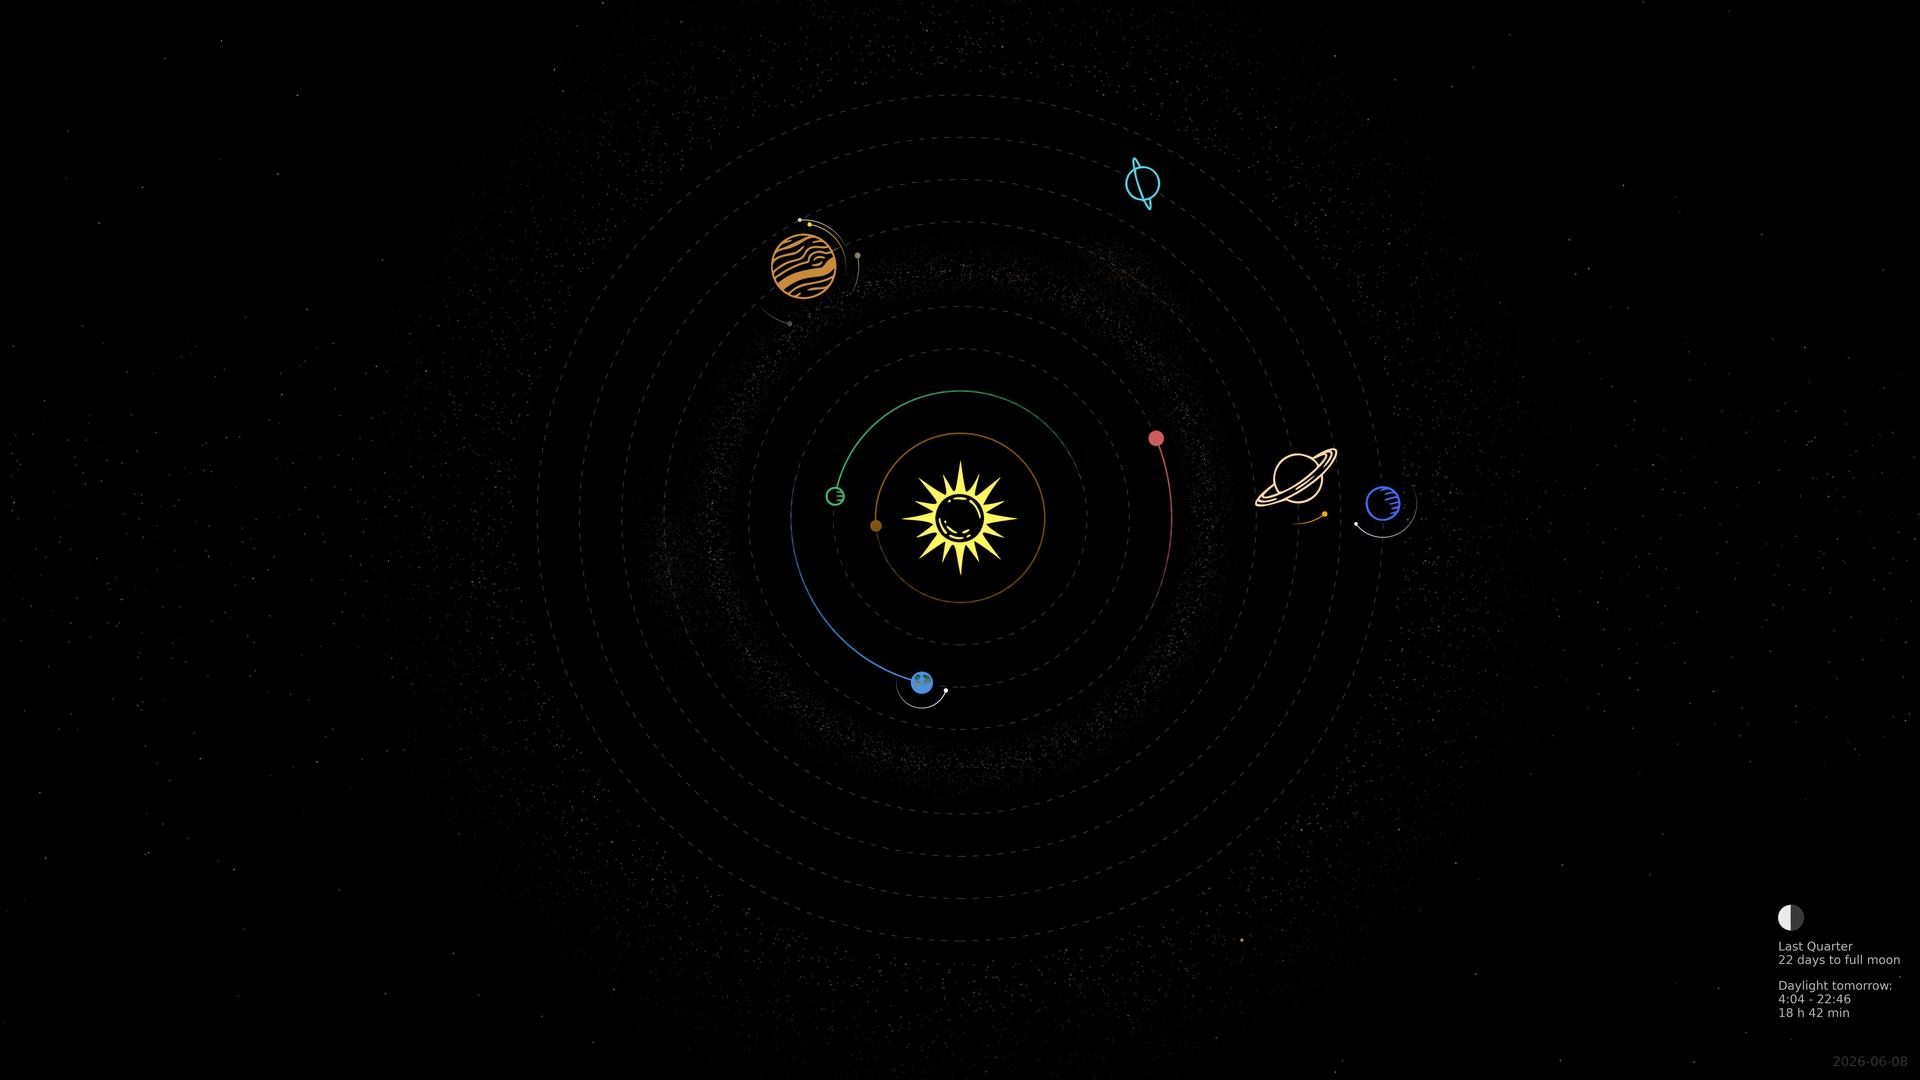
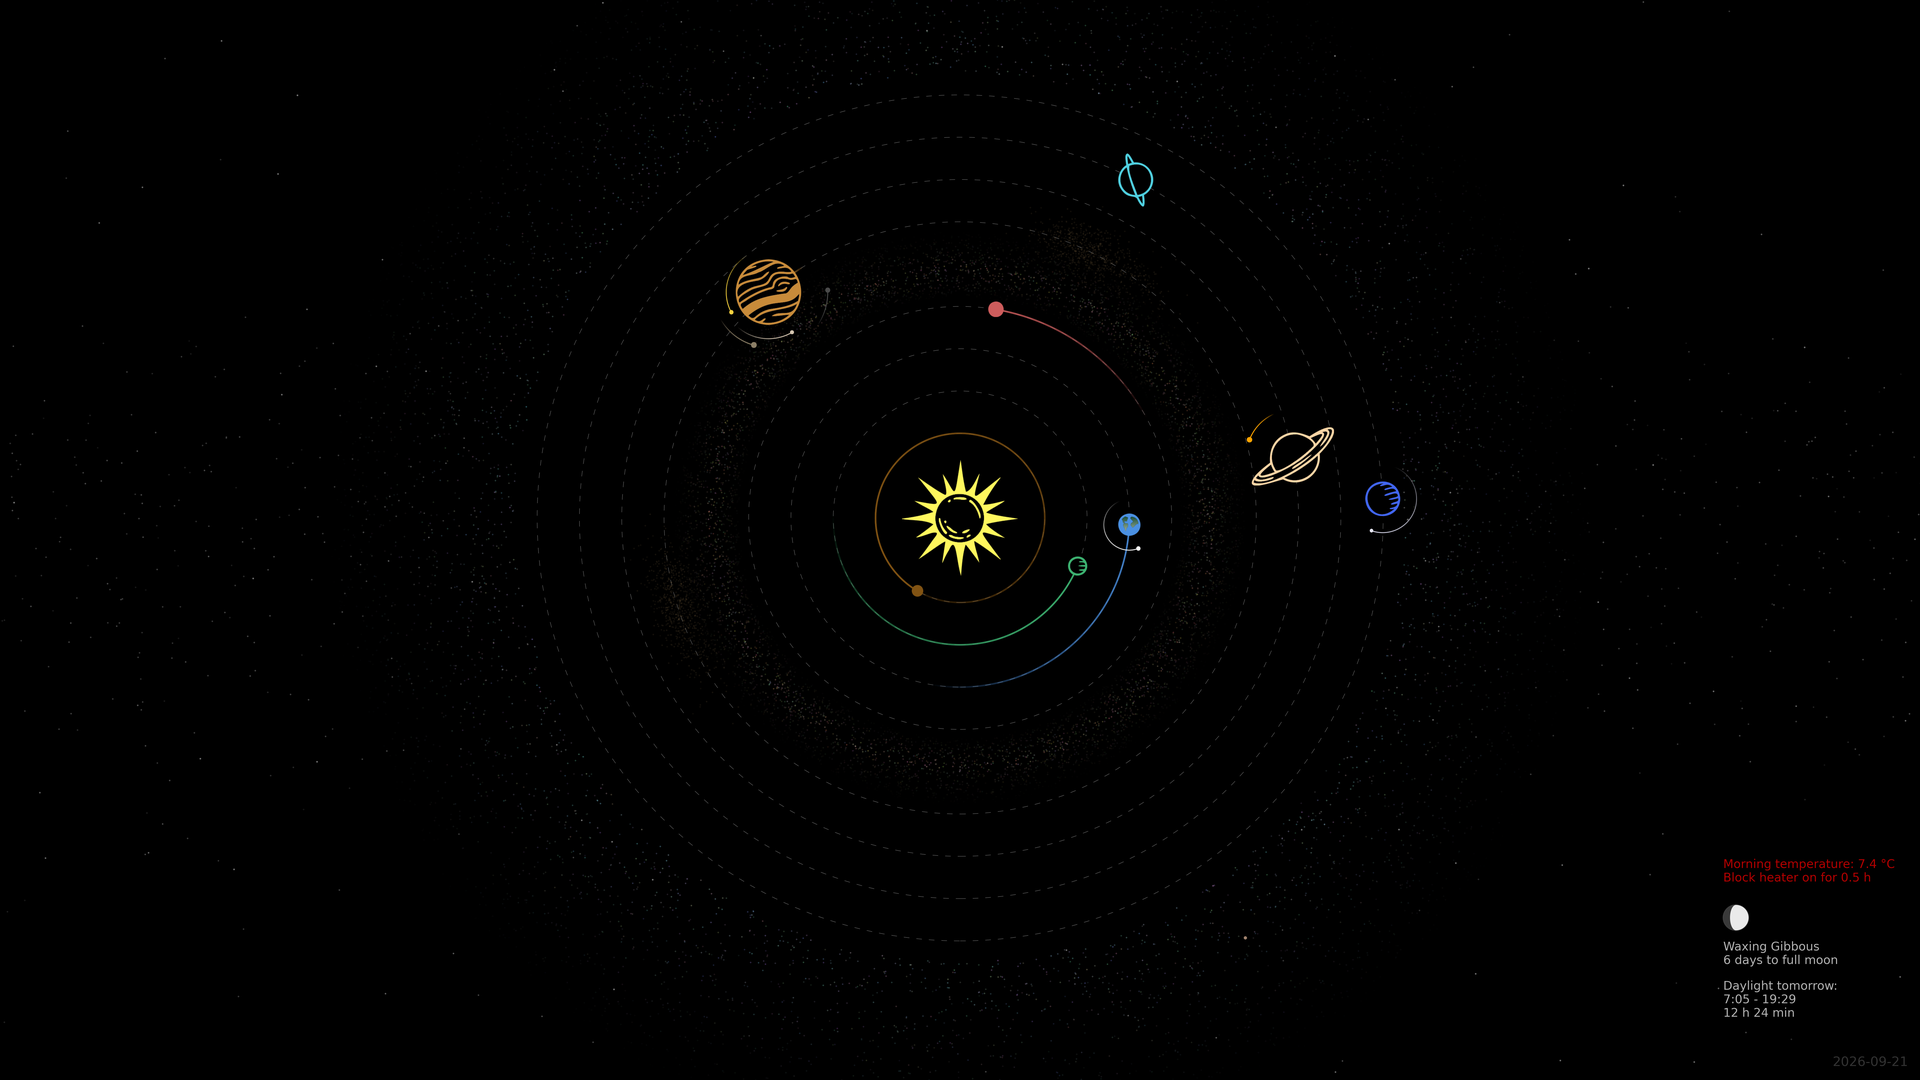
Block heater warning

diff --git a/solarmap.py b/solarmap.py
@@ -83,6 +83,11 @@ STRINGS = {
         'daylight_header':  'Päivänvalo huomenna:',
         'daylight_time':    'klo {rise} - {set}',
         'daylight_hours':   '{h} t {m} min',
+        'morning_temp':     'Lämpötila aamulla: {temp:.1f} °C',
+        'block_heater':     'Lohkolämmitin päälle {time} ajaksi',
+        'heating_05h':      '0,5 h',
+        'heating_1h':       '1 h',
+        'heating_2h':       '2 h',
     },
     'en': {
         'full_moon':        'Full Moon',
@@ -97,6 +102,11 @@ STRINGS = {
         'daylight_header':  'Daylight tomorrow:',
         'daylight_time':    '{rise} - {set}',
         'daylight_hours':   '{h} h {m} min',
+        'morning_temp':     'Morning temperature: {temp:.1f} °C',
+        'block_heater':     'Block heater on for {time}',
+        'heating_05h':      '0.5 h',
+        'heating_1h':       '1 h',
+        'heating_2h':       '2 h',
     }
 }
 
@@ -174,6 +184,78 @@ else:
 
 horizons_date = utc.strftime("%Y-%m-%d")
 
+def get_tomorrow_morning_temp(lat, lon):
+    """Get tomorrow's 6 AM temperature from FMI open data."""
+    import requests
+    import xml.etree.ElementTree as ET
+    from datetime import datetime, timedelta
+
+    tomorrow = datetime.now() + timedelta(days=1)
+    start_time = tomorrow.replace(hour=0, minute=0).strftime('%Y-%m-%dT%H:%M:%SZ')
+    end_time = tomorrow.replace(hour=23, minute=59).strftime('%Y-%m-%dT%H:%M:%SZ')
+
+    url = "https://opendata.fmi.fi/wfs"
+    params = {
+        'service': 'WFS',
+        'version': '2.0.0',
+        'request': 'getFeature',
+        'storedquery_id': 'fmi::forecast::harmonie::surface::point::multipointcoverage',
+        'latlon': f'{lat},{lon}',
+        'parameters': 'temperature',
+        'starttime': start_time,
+        'endtime': end_time
+    }
+
+    try:
+        response = requests.get(url, params=params, timeout=10)
+        print(f"FMI connection status: {response.status_code}")
+
+        if response.status_code != 200:
+            return None
+
+        root = ET.fromstring(response.content)
+
+        # Parse timestamps and temperatures
+        timestamps = []
+        temps = []
+
+        # Find time positions (format: lat lon timestamp)
+        for elem in root.iter():
+            if 'positions' in elem.tag and elem.text:
+                position_data = elem.text.strip().split()
+                # Timestamps are at indices 2, 5, 8, etc.
+                for i in range(2, len(position_data), 3):
+                    timestamps.append(int(position_data[i]))
+
+        # Find temperature values
+        for elem in root.iter():
+            if 'doubleOrNilReasonTupleList' in elem.tag:
+                values = elem.text.strip().split()
+                temps.extend([float(v) for v in values if v not in ['NaN', '']])
+
+        # Find 6 AM temperature
+        if timestamps and temps and len(timestamps) == len(temps):
+            target_hour = 6
+            min_diff = float('inf')
+            morning_temp = None
+            for timestamp, temp in zip(timestamps, temps):
+                dt = datetime.fromtimestamp(timestamp)
+                hour_diff = abs(dt.hour - target_hour)
+                if hour_diff < min_diff:
+                    min_diff = hour_diff
+                    morning_temp = temp
+            return morning_temp
+
+    except Exception as e:
+        print(f"Exception: {e}")
+        import traceback
+        traceback.print_exc()
+
+    return None
+
+# Get tomorrow's 6 AM temperature
+morning_temp = get_tomorrow_morning_temp(latitude, longitude)
+
 # Planet list
 planets = ['Mercury', 'Venus', 'Earth', 'Mars', 'Jupiter', 'Saturn', 'Uranus', 'Neptune', 'Pluto']
 
@@ -213,29 +295,29 @@ def get_horizons_longitude(body_id, date_str, center="500@10", name=None):
             r = requests.get(url, params=params, timeout=15)
             if r.status_code == 503:
                 wait = 2 ** attempt
-                print(f"Horizons 503 for {label}, retrying in {wait}s...")
+                print(f"Information unavailable for {label}, retrying in {wait} s...")
                 time.sleep(wait)
                 continue
             r.raise_for_status()
             raw = r.json()
             if 'error' in raw:
-                print(f"Horizons error: {raw['error']}")
+                print(f"Fetch error: {raw['error']}")
                 return None
             result = raw.get("result", "")
             soe = result.find("$$SOE")
             eoe = result.find("$$EOE")
             if soe == -1 or eoe == -1:
-                print(f"Horizons: no data block for {label}")
+                print(f"No data block for {label}")
                 return None
             lines = result[soe+5:eoe].strip().splitlines()
             data = " ".join(lines)
             x = float(data.split("X =")[1].split()[0])
             y = float(data.split("Y =")[1].split()[0])
             longitude = math.degrees(math.atan2(y, x)) % 360
-            print(f"Horizons {label} (center {center}): lon={longitude:.4f}°")
+            print(f"{label} longitude fetched")
             return longitude
         except Exception as e:
-            print(f"Horizons fetch failed for {label}: {e}")
+            print(f"Fetch failed for {label}: {e}")
             time.sleep(2 ** attempt)
     return None
 
@@ -267,7 +349,7 @@ def fetch_all_horizons(fetch_list, date_str):
     return results
 
 # Fetch longitudes from Horizons (one request per planet)
-print("Fetching planet positions from JPL Horizons...")
+print("FETCHING PLANET LONGITUDES FROM JPL HORIZONS")
 planet_fetches = [{'name': n, 'body_id': HORIZONS_IDS[n], 'center': '500@10'} for n in planets]
 all_planet_results = fetch_all_horizons(planet_fetches, horizons_date)
 longitudes = {n: all_planet_results[n] for n in planets}
@@ -714,7 +796,7 @@ MOON_DATA = {
     },
 }
 
-print("Fetching moon positions from JPL Horizons...")
+print("FETCHING MOON LONGITUDES FROM JPL HORIZONS")
 moon_fetches = [{'name': n, 'body_id': d['body_id'], 'center': d['center']} for n, d in MOON_DATA.items()]
 all_moon_results = fetch_all_horizons(moon_fetches, horizons_date)
 moon_longitudes = {n: all_moon_results[n] for n in MOON_DATA}
@@ -859,15 +941,15 @@ def get_next_full_moon(date_str):
 if show_info_text:
     # Calculate text position (bottom right with taskbar offset)
     if fig_aspect > 1:
-        text_x = 1.4 * aspect - 0.07
+        text_x = 1.4 * aspect - 0.2
         text_y = -1.2 + (taskbar_offset * 2.6)
     else:
-        text_x = 1.4 - 0.07
+        text_x = 1.4 - 0.2
         text_y = (-1.3 / aspect) + (taskbar_offset * 2.6) + 0.1
 
 if show_info_text:
     # Fetch everything from sunrisesunset.io
-    print("Fetching sun/moon data from sunrisesunset.io...")
+    print("FETCHING SUN/MOON DATA FROM SUNRISESUNSET.IO")
     sun_moon = get_sun_moon_data(latitude, longitude, horizons_date)
 
     # Timezone (for reference, already baked into returned times)
@@ -922,19 +1004,38 @@ if show_info_text:
 
 date_str = horizons_date
 
-info_boxes = []
+info_boxes = []  # each item: {'text': str, 'color': str, 'is_moon': bool}
 
-# 1. Moon phase
+# 1. Block heater alert (if needed)
+print(f"Morning temperature: {morning_temp}°C, adding block heater alert.")
+if morning_temp is not None and morning_temp < 10:
+    if morning_temp >= 5: #10...5 C = 0.5h
+        heating_time = T['heating_05h']
+    elif morning_temp >= -10: #4...-10 C = 1h
+        heating_time = T['heating_1h']
+    else: #-11 C or lower = 2h
+        heating_time = T['heating_2h']
+
+    warning_text = (
+        f"{T['morning_temp'].format(temp=morning_temp)}\n"
+        f"{T['block_heater'].format(time=heating_time)}"
+    )
+    if LANGUAGE == 'fi':
+        warning_text = warning_text.replace('.', ',')
+
+    info_boxes.append({'text': warning_text, 'color': 'red', 'is_moon': False})
+
+# 2. Moon phase
 moon_text = f"\n\n\n{phase_name}\n{days_to_full:.0f} {T['days_to_full']}"
-info_boxes.append(moon_text)
+info_boxes.append({'text': moon_text, 'color': 'white', 'is_moon': True})
 
-# 2. Daylight
+# 3. Daylight
 daylight_text = (
     f"{T['daylight_header']}\n"
     f"{T['daylight_time'].format(rise=sunrise_time, set=sunset_time)}\n"
     f"{T['daylight_hours'].format(h=daylight_hours, m=daylight_mins)}"
 )
-info_boxes.append(daylight_text)
+info_boxes.append({'text': daylight_text, 'color': 'white', 'is_moon': False})
 
 
 # Draw stacked info boxes
@@ -943,28 +1044,27 @@ box_spacing = 0.0
 box_padding = 0.015
 current_y = text_y
     
-for i, box_text in enumerate(reversed(info_boxes)):
+for i, box in enumerate(reversed(info_boxes)):
+    box_text = box['text']
     # Count lines in this box
     num_lines = box_text.count('\n') + 1
     line_height = 0.035
     box_height = num_lines * line_height + 2 * box_padding - 0.01
     
-    # Draw white outline rectangle
     box_left = text_x - box_width
     box_bottom = current_y
-    
     
     # Draw text inside box (left-aligned)
     text_x_pos = box_left + box_padding
     text_y_pos = box_bottom + box_padding
     
     ax.text(text_x_pos, text_y_pos, box_text,
-            color='white', fontsize=11,
+            color=box['color'], fontsize=11,
             ha='left', va='bottom',
             alpha=0.7, zorder=11)
     
-    # Special handling for first box (moon phase) - add moon indicator
-    if i == len(info_boxes) - 1:
+    # Special handling for the moon phase box - add moon indicator
+    if box['is_moon']:
         moon_radius = 0.03
 
         # top-left inside the box
